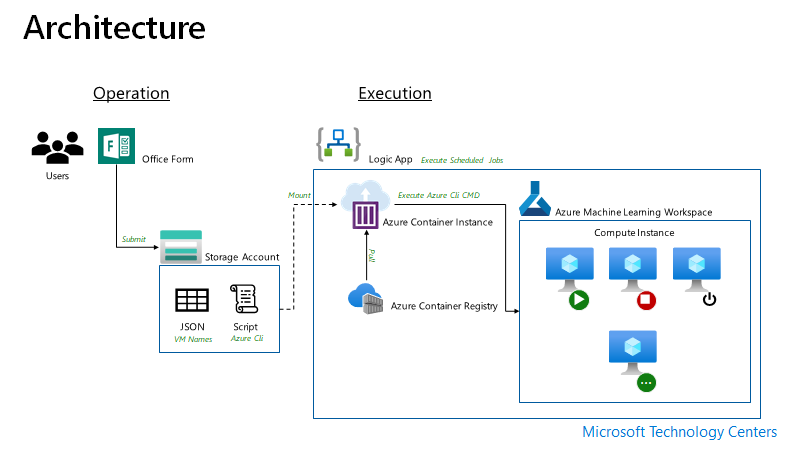
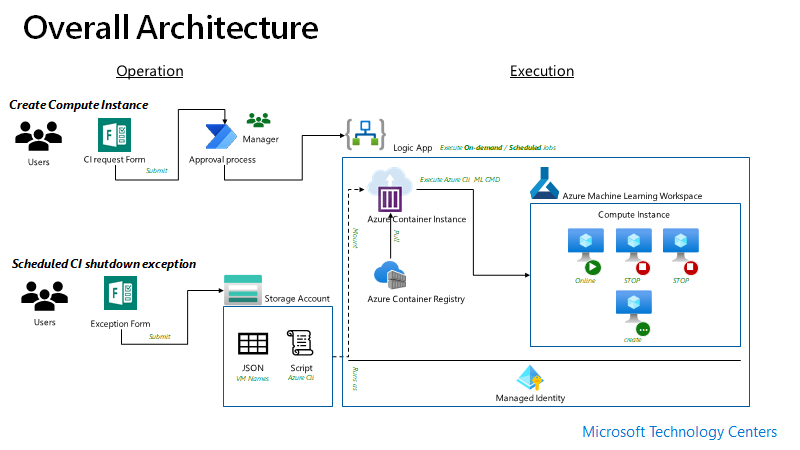
update arch img

diff --git a/README.md b/README.md
@@ -1,14 +1,32 @@
 # Manage Azure Machine Learning Compute Insatance
 
-## Challenge
+AML (Azure Machine Learning Service) is a data science platform for data scientists. The data scientists need one or more CI (Compute Instances) for different projects or experiments. Although the they are responsible for managing CI, sometime they forget that machines is on for nothing. If GPU attached machine or large size of machines are used, he cost of these unused CIs could be $ 1,000+ a week. 
 
-AMLS (Azure Machine Learning Service) is a data science platform for data scientists. The data scientists is using one or more CI (Compute Instances) in AMLS for different projects. Although the they are full responsible for manage CI, sometime they forget that machines is on and nothing is run. The cost of these unused CIs could be $ 1,000 a week. When they foresee the growth of Azure Machine Learning usage, they begun to worry about cost of underutilized compute resources.
+Automated management of CIs in Azure Machine Learning Workspace is limited today. It doesn't support auto-start nor auto-stop. Even native Azure Cli doesn't support managing CIs.
 
-Managing Compute Instance in Azure Machine Learning Workspace is limited today. It doesn't support auto-shutdown nor auto-scale. Even native Azure Cli doesn't support managing CIs in AMLS.
-
-A way to manage CIs is using Azure Cli with ML extension. But another potential problem could be that turning off the CIs has to be run on scheduled base without human intervention. 
+Other than AML Stuio, another way you can manage CIs is using Azure Cli with ML extension. But another potential problem could be that automated turning the CIs off has to be run on scheduled base without human intervention. 
 
 Not only that users need to manage exceptions to keep CIs overnight for long-running model training.
+
+## Challenge 
+
+To do data science projects, the data scientists need different experiment environments, like real scientists need isolated rooms for their experiments. The data scientists need different type of model training environment. A business problem can be solved by various algorithms so finding the best among many algorithms is what the data scientists do. For example, there are deep learning algorithms require GPU for model training. In this case the data scientists need machine with GPU. On the other hand, other algorithms are optimized on CPU but it may require a large memory to process.
+Because of this nature, it is easy to find a pattern that a data scientist is using one or more development environment for their work. In addition to that if the data scientist works on multiple projects, then they need more development environments.
+
+After projects are done, those environments needed to be revoked or stopped when they are not using it. But it is not easy to terminate the environment right after the project because there are some artifacts that need to be collected or moved some place for next projects.
+
+Azure Machine Learning allows data scientists create the isolated development environment with a concept of CI (Compute Instance) [1]. CI is a type of Managed Virtual Machine for data scientists. When a project begins, CI will be created for the data scientist development environment. And they will create another CI for another project or experiment with larger size or hardware specification. Then it can become a CI sprawl. The worst case can be an expensive GPU machine turned on and nothing happens during the weekends. And, in terms of cost, this can be a bad case to expenses.
+
+This situation must be managed. From infrastructure management point of view, the creating NEW CI  permission from data scientists need to be revoked[2] and there should be an approval process placed. So, when data scientist needs CI they can make request one to infrastructure team or their manager. Also a tool is needed to apply a rule to turn CIs off when they are not being used.
+
+Today Schedule based CI stopping is in private preview. It can start and stop CI with a given day and time. But it does not allow an exception of the rule. For example, if the model training begun and the model training need to be run over a night or multiple day, the stopping CI must be paused for a while for the specific CI.
+With this condition, we had to produce the better solution that controlling compute resources and providing flexibility to data scientists.
+References
+
+> [1] Microsoft, ["Azure Machine Learning Compute Instance"](https://docs.microsoft.com/en-us/azure/machine-learning/concept-compute-instance)
+>
+> [2] Microsoft, ["Manage access to an Azure Machine Learning workspace"](https://docs.microsoft.com/en-us/azure/machine-learning/how-to-assign-roles#create-custom-role)
+
 
 ## Solution
 
@@ -26,10 +44,15 @@ The image will be provisioned based on schedule and execute the script.
 
 ![solution architecture](./images/azml-mg-ci-00.png)
 
+### Create Compute Instance 
+
+![solution architecture](./images/azml-mg-ci-01.png)
+
 ### Stop Compute Instance
+
+![solution architecture](./images/azml-mg-ci-02.png)
 
 You can stop CI (Compute Instances) using azure cli ml extension.
 
-As you can't control CIs with REST
+> You can reuse this approach to turn CI on in the week day monrning.
 
-### Create Compute Instance 
